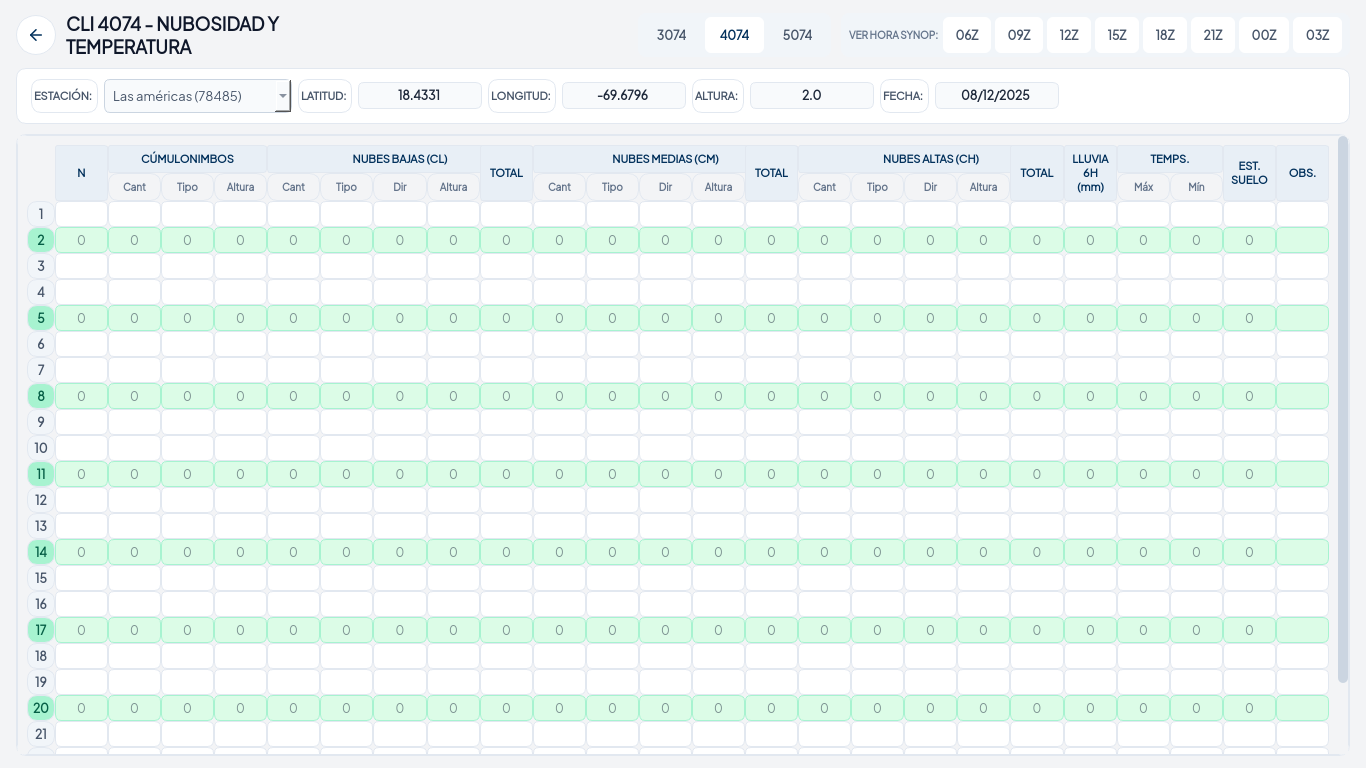
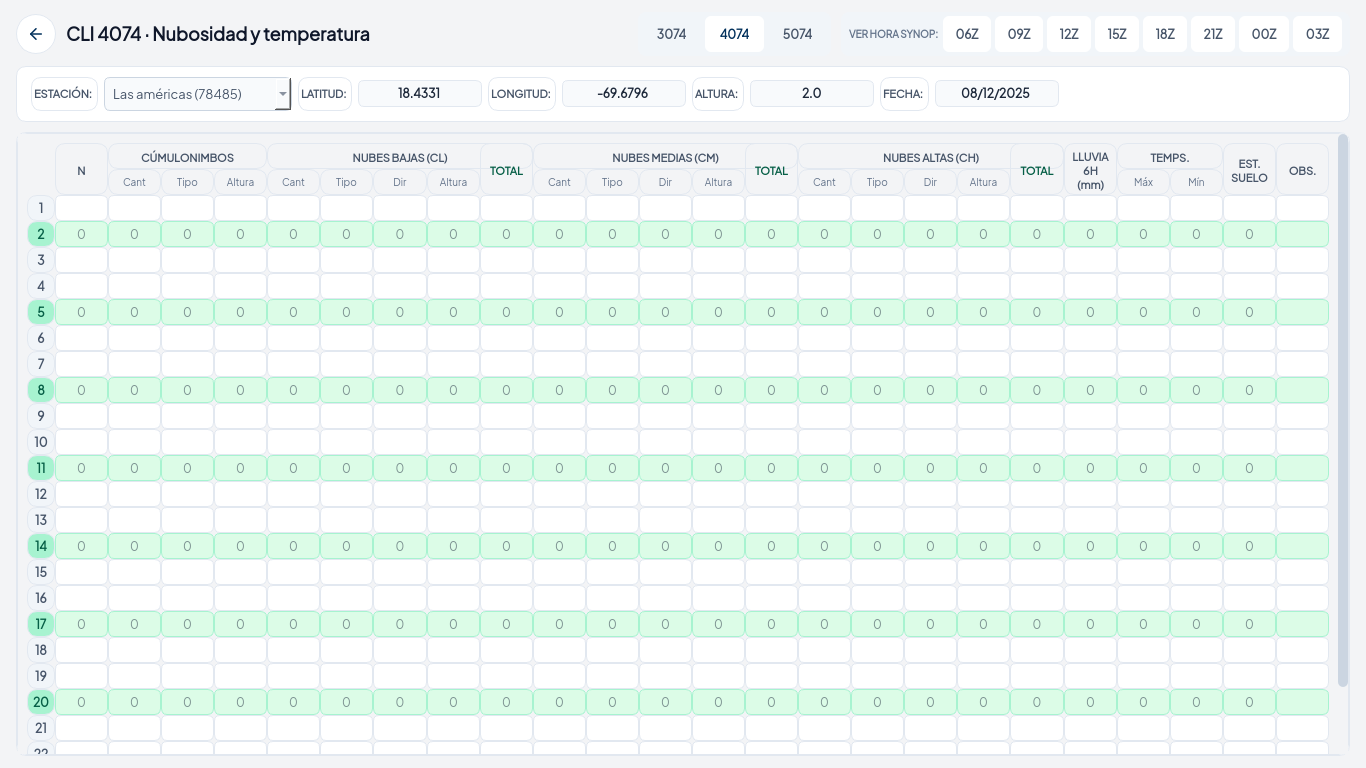
fix(cli): encabezados como el mockup, no cajas de color
El dueño tenía razón: había aplicado «encabezados con color» como cajas
rellenas, y el mockup no tiene **ni una** en las tres hojas. Rehecho mirando las
imágenes:

- **Encabezado de grupo**: texto en `$acento`, 11 px/700, sin fondo. Se lee
  como rótulo, no como bloque. El 5074 conserva el rojo de su familia para el
  bloque de fenómenos, que es su identidad.
- **Sub-encabezado** (`Esta.`, `NMM`, `Cant`, `Tipo`…): texto gris, 10 px/600.
- **Rótulos de fenómenos del 3074**: eran cuadros girados 90°; el mockup los
  muestra horizontales en la fila de sub-encabezados. `_VerticalLabel` deja de
  rotar y de pintar chip.
- **Títulos**: `CLI 3074 · Observaciones de superficie`, en una línea con el
  separador del mockup, sin cortar en tres renglones.

El test que exigía el chip oscuro girado se migra a la forma del mockup:
comprueba que el rótulo dibuja texto.

849 passed, EXIT=0.

diff --git a/oms_ui/pages/cli5074.py b/oms_ui/pages/cli5074.py
@@ -106,13 +106,17 @@ _LABEL_QSS = (
 )
 #: El 5074 mantiene su identidad roja: el encabezado es tinte de la familia
 #: de error, no el acento global. Es el nivel 2 de la jerarquía.
+#: Encabezado de grupo: texto de color sobre la tarjeta, sin caja (mockup).
+#: `{color}` lo pone cada grupo; por defecto el acento.
 _HEADER_QSS = (
-    "background-color: $error_suave; color: $error_fuerte; font-weight: 700;"
-    "font-size: 11px; padding: 6px 4px; border-radius: 3px;"
+    "background-color: transparent; color: {color}; font-weight: 700;"
+    "font-size: 11px; padding: 6px 4px 2px 4px;"
 )
+_DEFAULT = "$acento"
+#: Sub-encabezado: texto gris, sin relleno.
 _SUB_HEADER_QSS = (
-    "background-color: transparent; color: $suave_alt; font-weight: 700;"
-    "font-size: 10px; padding: 4px 2px;"
+    "background-color: transparent; color: $suave_alt; font-weight: 600;"
+    "font-size: 10px; padding: 2px;"
 )
 _INPUT_QSS = (
     "QLineEdit { background-color: $superficie; border: 1px solid $borde;"
@@ -152,7 +156,7 @@ class Cli5074View(QWidget):
     switch_requested = Signal(str)
 
     MODULE_KEY = "cli5074"
-    TITLE = "CLI 5074 - OBSERVACIONES EXTREMAS Y FENÓMENOS"
+    TITLE = "CLI 5074 · Observaciones extremas y fenómenos"
 
     def __init__(
         self,
@@ -216,7 +220,7 @@ class Cli5074View(QWidget):
             "QLabel#cliTitle { font-size: 18px; font-weight: 800;"
             "color: $texto_alt; background: transparent; }"
         ))
-        title.setWordWrap(True)
+        title.setWordWrap(False)
         top.addWidget(title, 0, Qt.AlignmentFlag.AlignVCenter)
         top.addStretch(1)
         self._build_tabs(top)
@@ -313,12 +317,12 @@ class Cli5074View(QWidget):
         card_layout.addLayout(grid)
         corner = QLabel("HORA LOCAL")
         corner.setAlignment(Qt.AlignmentFlag.AlignCenter)
-        corner.setStyleSheet(_qss(_HEADER_QSS.format(color="$banda")))
+        corner.setStyleSheet(_qss(_HEADER_QSS.format(color="$acento")))
         grid.addWidget(corner, 0, 0)
         for col_index, row in enumerate(_HOURLY_ROWS):
             head = QLabel(str(row))
             head.setAlignment(Qt.AlignmentFlag.AlignCenter)
-            head.setStyleSheet(_qss(_HEADER_QSS.format(color="$banda")))
+            head.setStyleSheet(_qss(_HEADER_QSS.format(color="$acento")))
             grid.addWidget(head, 0, 1 + col_index)
         self.hour_inputs: dict[int, dict[str, QLineEdit]] = {}
         for row_index, (field, label) in enumerate(_HOURLY_FIELDS):

diff --git a/oms_ui/pages/cli3074.py b/oms_ui/pages/cli3074.py
@@ -101,9 +101,10 @@ _HEADER_QSS = (
     "background-color: $acento_suave; color: $acento_texto; font-weight: 700;"
     "font-size: 11px; padding: 6px 4px; border-radius: 3px;"
 )
+#: Sub-encabezado: texto gris, sin relleno.
 _SUB_HEADER_QSS = (
-    "background-color: transparent; color: $suave_alt; font-weight: 700;"
-    "font-size: 10px; padding: 4px 2px;"
+    "background-color: transparent; color: $suave_alt; font-weight: 600;"
+    "font-size: 10px; padding: 2px;"
 )
 INPUT_QSS = (
     "QLineEdit { background-color: $superficie; border: 1px solid $borde;"
@@ -202,17 +203,12 @@ class _VerticalLabel(QLabel):
     def paintEvent(self, event) -> None:
         painter = QPainter(self)
         painter.setRenderHint(QPainter.RenderHint.Antialiasing)
-        painter.fillRect(self.rect(), QColor(_qss("$acento_suave")))
-        painter.translate(0, self.height())
-        painter.rotate(-90)
-        painter.setPen(QColor(_qss("$borde")))
+        painter.setPen(QColor(_qss("$suave_alt")))
         font = painter.font()
         font.setBold(True)
+        font.setPointSizeF(7.5)
         painter.setFont(font)
-        painter.drawText(
-            0, 0, self.height(), self.width(),
-            Qt.AlignmentFlag.AlignCenter, self._text,
-        )
+        painter.drawText(self.rect(), Qt.AlignmentFlag.AlignCenter, self._text)
         painter.end()
 
 
@@ -238,7 +234,7 @@ class Cli3074View(QWidget):
     switch_requested = Signal(str)
 
     MODULE_KEY = "cli3074"
-    TITLE = "CLI 3074 - OBSERVACIONES DE SUPERFICIE"
+    TITLE = "CLI 3074 · Observaciones de superficie"
 
     def __init__(
         self,
@@ -312,7 +308,7 @@ class Cli3074View(QWidget):
             "QLabel#cliTitle { font-size: 18px; font-weight: 800;"
             "color: $texto_alt; background: transparent; }"
         ))
-        title.setWordWrap(True)
+        title.setWordWrap(False)
         top.addWidget(title, 0, Qt.AlignmentFlag.AlignVCenter)
         top.addStretch(1)
 

diff --git a/tests/test_f4_ui.py b/tests/test_f4_ui.py
@@ -1133,25 +1133,26 @@ def test_cli4074_columns_match_the_reference_image_order(cli3074_page, qtbot):
     assert grid.itemAtPosition(3, 24).widget() is view.row_inputs[2]["observador"]
 
 
-def test_fenomenos_abbreviations_render_dark_chips(cli3074_page, qtbot):
-    """GR/SQ/FC heads: dark chip + light bold text (visible, round 7)."""
+def test_fenomenos_abbreviations_render_as_text(cli3074_page, qtbot):
+    """Las abreviaturas de fenómenos (GR/SQ/FC…) son texto, como el mockup.
+
+    Antes eran rótulos girados sobre un chip oscuro; el mockup las muestra
+    horizontales y en gris sobre la tarjeta, así que se pinta el glifo y se
+    comprueba que hay tinta distinta del fondo.
+    """
     from PySide6.QtWidgets import QLabel
+
+    from oms_ui import theme
+    from oms_ui.pages import cli3074 as modulo
 
     cli3074_page._open_cli("cli3074")
     view = cli3074_page._stack.currentWidget()
-    gr = next(w for w in view.findChildren(QLabel)
-              if isinstance(w, __import__("oms_ui.pages.cli3074", fromlist=["_VerticalLabel"])._VerticalLabel))
-    assert gr._text == "GR"
-    from oms_ui import theme
-
+    gr = next(w for w in view.findChildren(QLabel) if isinstance(w, modulo._VerticalLabel))
+    assert gr._text
     pix = gr.grab()
-    color = pix.toImage().pixelColor(3, 3).name()
-    # El chip oscuro se pinta de verdad, con el rol banda del tema activo.
-    assert color == theme.palette_actual()["acento_suave"]
-
-
-# ---------------------------------------------------------------- round 8 details
-
+    colores = {pix.toImage().pixelColor(x, y).name()
+               for x in range(pix.width()) for y in range(pix.height())}
+    assert len(colores) > 1, "el rótulo no dibujó texto"
 
 def test_toast_5s_and_click_dismiss(qtbot, fresh_db, tmp_path):
     """Owner round 8: toast dies after 5s or on any click (already shipped

diff --git a/oms_ui/pages/cli4074.py b/oms_ui/pages/cli4074.py
@@ -107,13 +107,17 @@ INPUT_QSS = (
     "color: $texto; font-size: 12px; padding: 3px 4px; }"
     "QLineEdit:focus { border-color: $acento; background-color: $acento_fondo; }"
 )
+#: Encabezado de grupo: texto de color sobre la tarjeta, sin caja (mockup).
+#: `{color}` lo pone cada grupo; por defecto el acento.
 _HEADER_QSS = (
-    "background-color: $acento_suave; color: $acento_texto; font-weight: 700;"
-    "font-size: 11px; padding: 6px 4px; border-radius: 3px;"
+    "background-color: transparent; color: {color}; font-weight: 700;"
+    "font-size: 11px; padding: 6px 4px 2px 4px;"
 )
+_DEFAULT = "$acento"
+#: Sub-encabezado: texto gris, sin relleno.
 _SUB_HEADER_QSS = (
-    "background-color: transparent; color: $suave_alt; font-weight: 700;"
-    "font-size: 10px; padding: 4px 2px;"
+    "background-color: transparent; color: $suave_alt; font-weight: 600;"
+    "font-size: 10px; padding: 2px;"
 )
 _SAVE_QSS = (
     "QPushButton { background-color: $acento; color: $sobre_acento;"
@@ -138,7 +142,7 @@ class Cli4074View(QWidget):
     switch_requested = Signal(str)
 
     MODULE_KEY = "cli4074"
-    TITLE = "CLI 4074 - NUBOSIDAD Y TEMPERATURA"
+    TITLE = "CLI 4074 · Nubosidad y temperatura"
 
     def __init__(
         self,
@@ -200,7 +204,7 @@ class Cli4074View(QWidget):
             "QLabel#cliTitle { font-size: 18px; font-weight: 800;"
             "color: $texto_alt; background: transparent; }"
         ))
-        title.setWordWrap(True)
+        title.setWordWrap(False)
         top.addWidget(title, 0, Qt.AlignmentFlag.AlignVCenter)
         top.addStretch(1)
         self._build_tabs(top)
